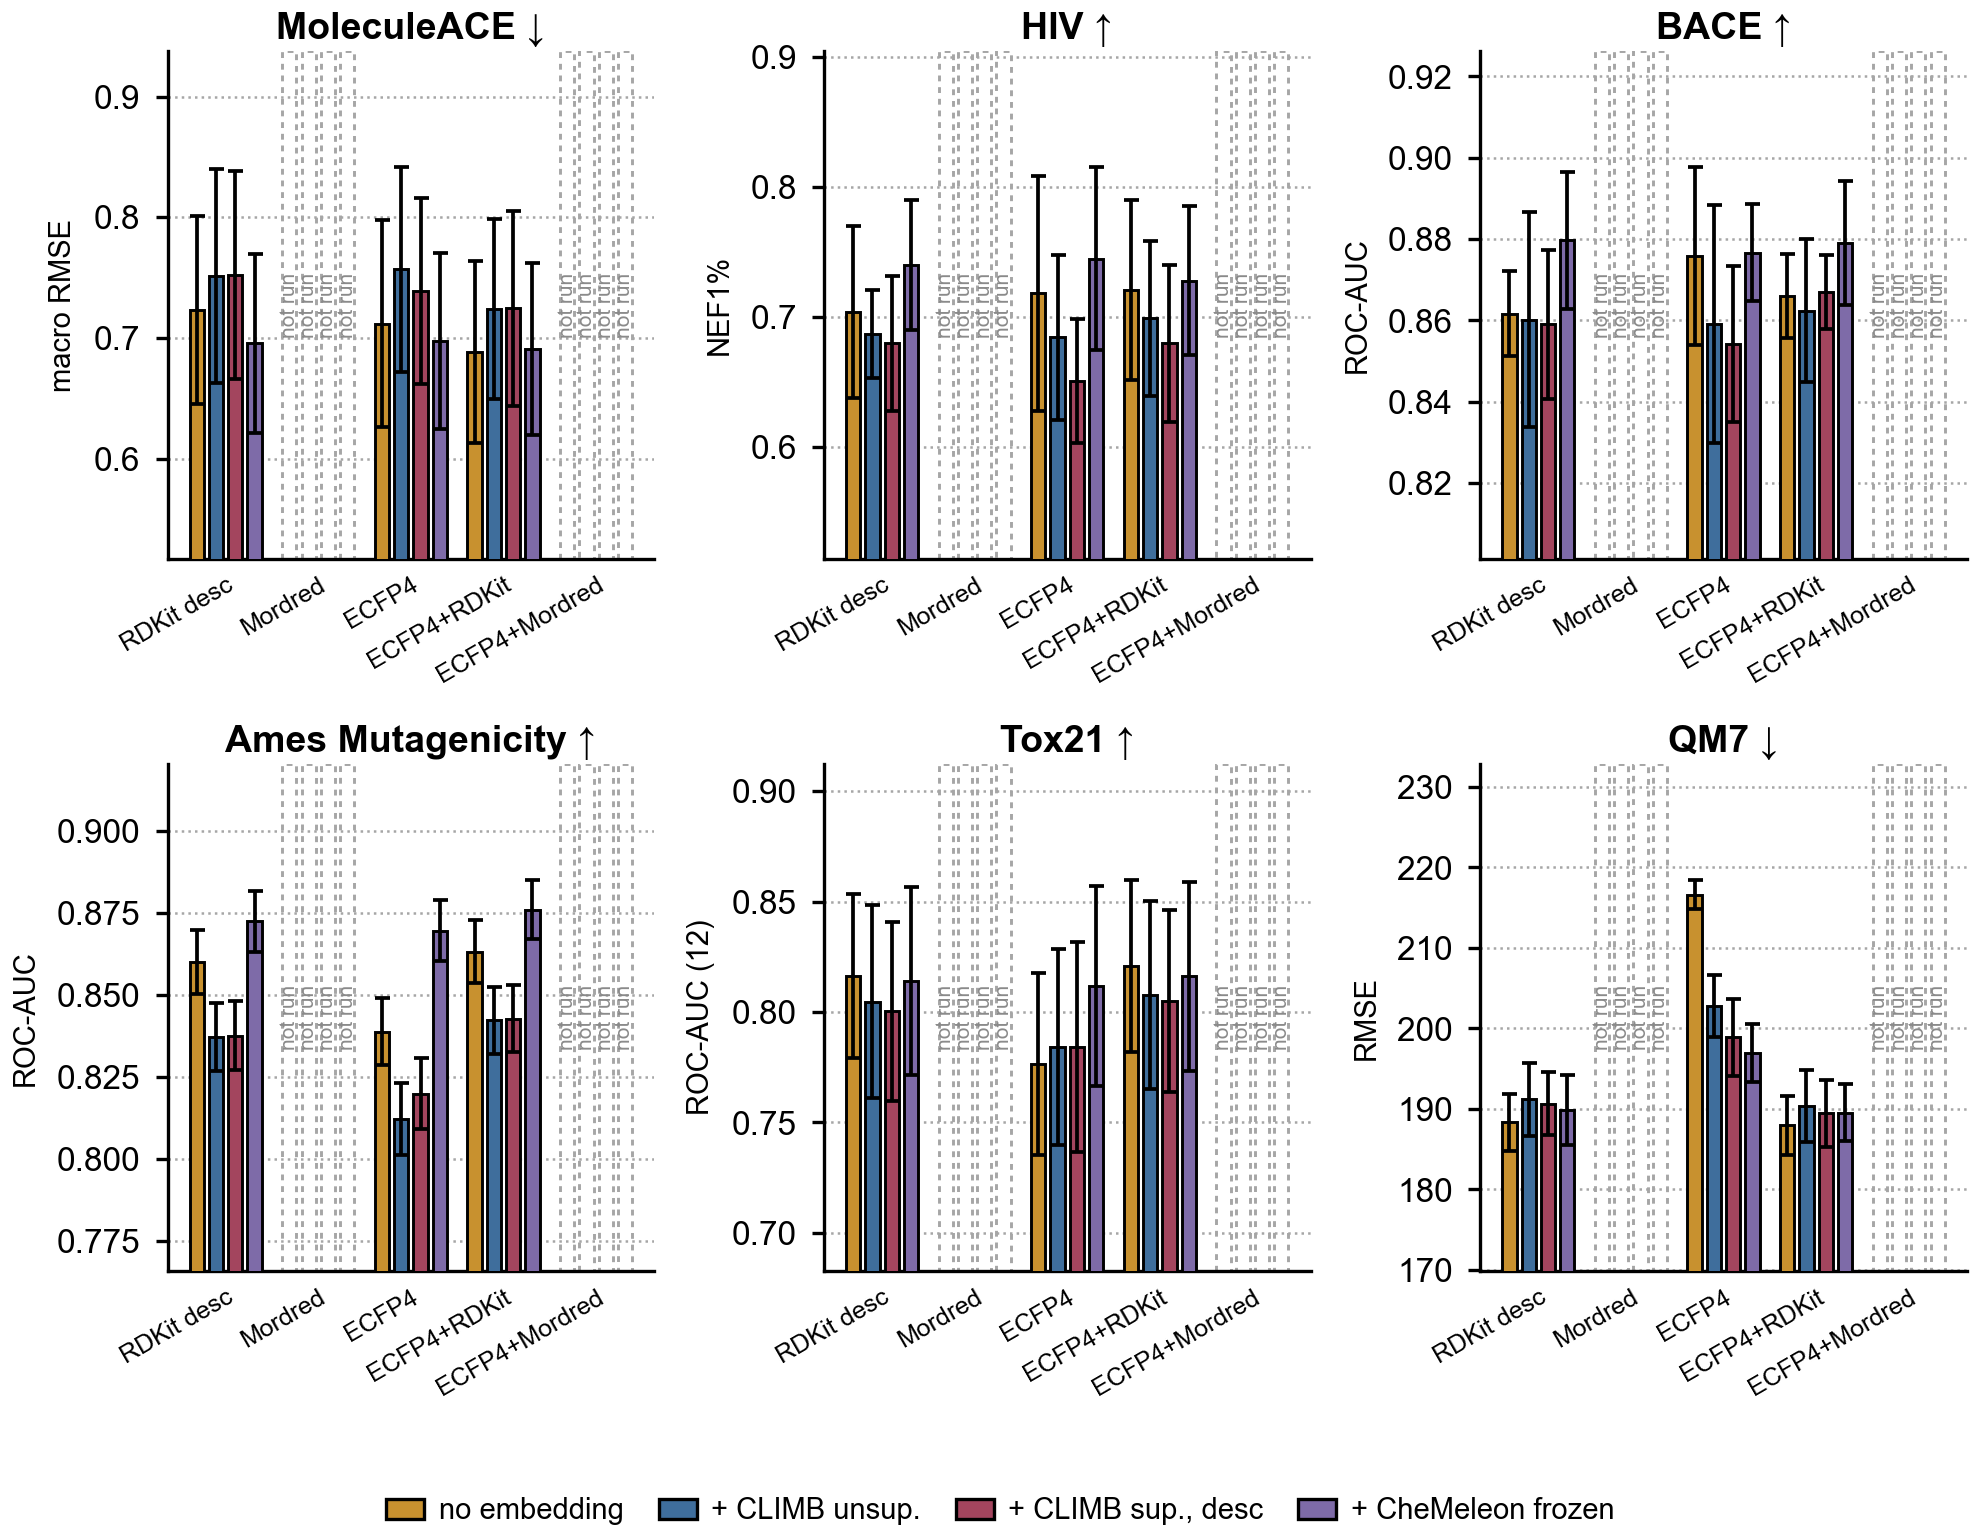
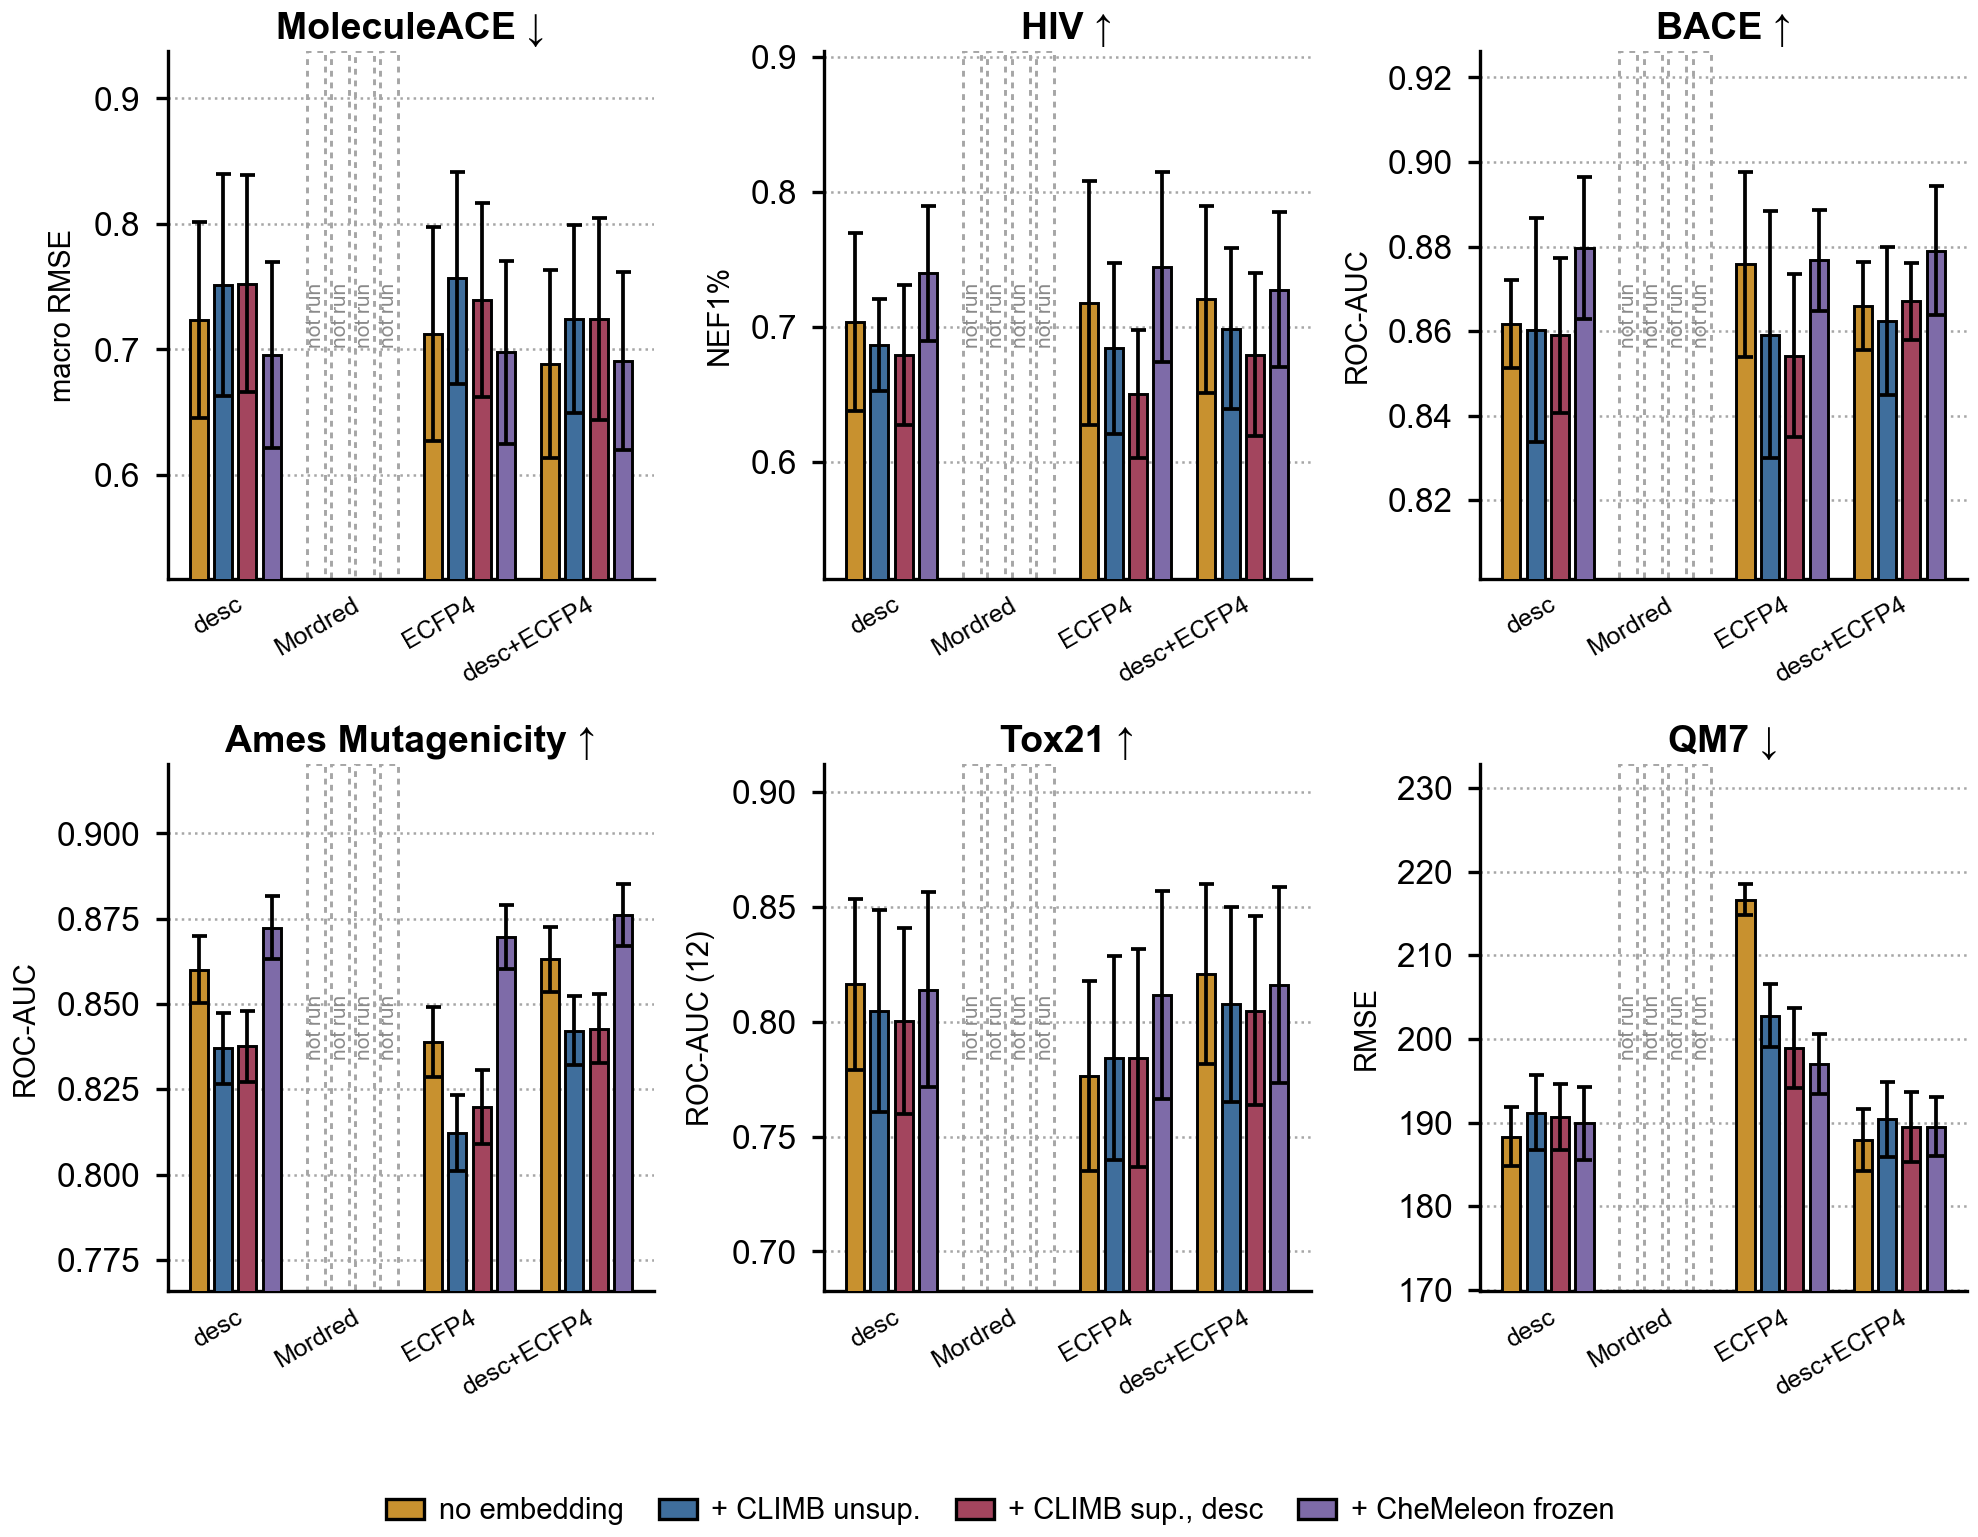
fig_F: four ticks -- desc, Mordred, ECFP4, desc+ECFP4
Leif 2026-08-22. Mordred enters as an ALTERNATIVE descriptor block beside
RDKit, not as a second family crossed with ECFP4. The five-tick version
built first also carried ECFP4+Mordred, which answers 'does the
fingerprint add to Mordred' -- a different question from the one this
figure asks -- at a cost of 4 more bars per panel across 6 panels.

All six canonical panels are to be populated: MoleculeACE, HIV, BACE,
Ames, Tox21, QM7. The Mordred grid currently covers four of them plus BBBP
and ESOL, which fig_F does not panel; MoleculeACE and Ames are running on
AWS. Until every table lands the Mordred tick draws 'not run' and the gate
names what is missing.

diff --git a/figures/fig_F.py b/figures/fig_F.py
@@ -227,13 +227,17 @@ ROLE_ORDER = [NO_EMB, EMB_CLM_U, EMB_CLM_S, EMB_CHE]
 # experiment in both families and stay unnamespaced, where the duplicate check turns them into a
 # free cross-family reproducibility read.
 MORDRED_KEY = "mdesc"
+# FOUR TICKS, NOT FIVE (Leif 2026-08-22). Mordred enters as an ALTERNATIVE descriptor block beside
+# RDKit, not as a second family to be crossed with ECFP4. A five-tick version carrying
+# ECFP4+Mordred as well was built first and dropped: it answers "does the fingerprint add to
+# Mordred", which is a different question from the one this figure asks, and it cost 4 more bars
+# per panel across 6 panels to do it.
 GROUPS = [(tick, base, [(base if r is NO_EMB else f"{base}+{ROLE_SUFFIX[r]}", r)
                         for r in ROLE_ORDER])
-          for tick, base in (("RDKit desc", "desc"),
+          for tick, base in (("desc", "desc"),
                              ("Mordred", MORDRED_KEY),
                              ("ECFP4", "fp"),
-                             ("ECFP4+RDKit", "fp+desc"),
-                             ("ECFP4+Mordred", f"fp+{MORDRED_KEY}"))]
+                             ("desc+ECFP4", "fp+desc"))]
 FEATURES = [(k, role, ROLE_COLOR[role]) for _, _, mem in GROUPS for k, role in mem if k]
 BASE = "fp+desc"
 # TWO HEADLINE DELTAS, NOT ONE (user 2026-08-20: "it'll become two numbers yes, everywhere report
